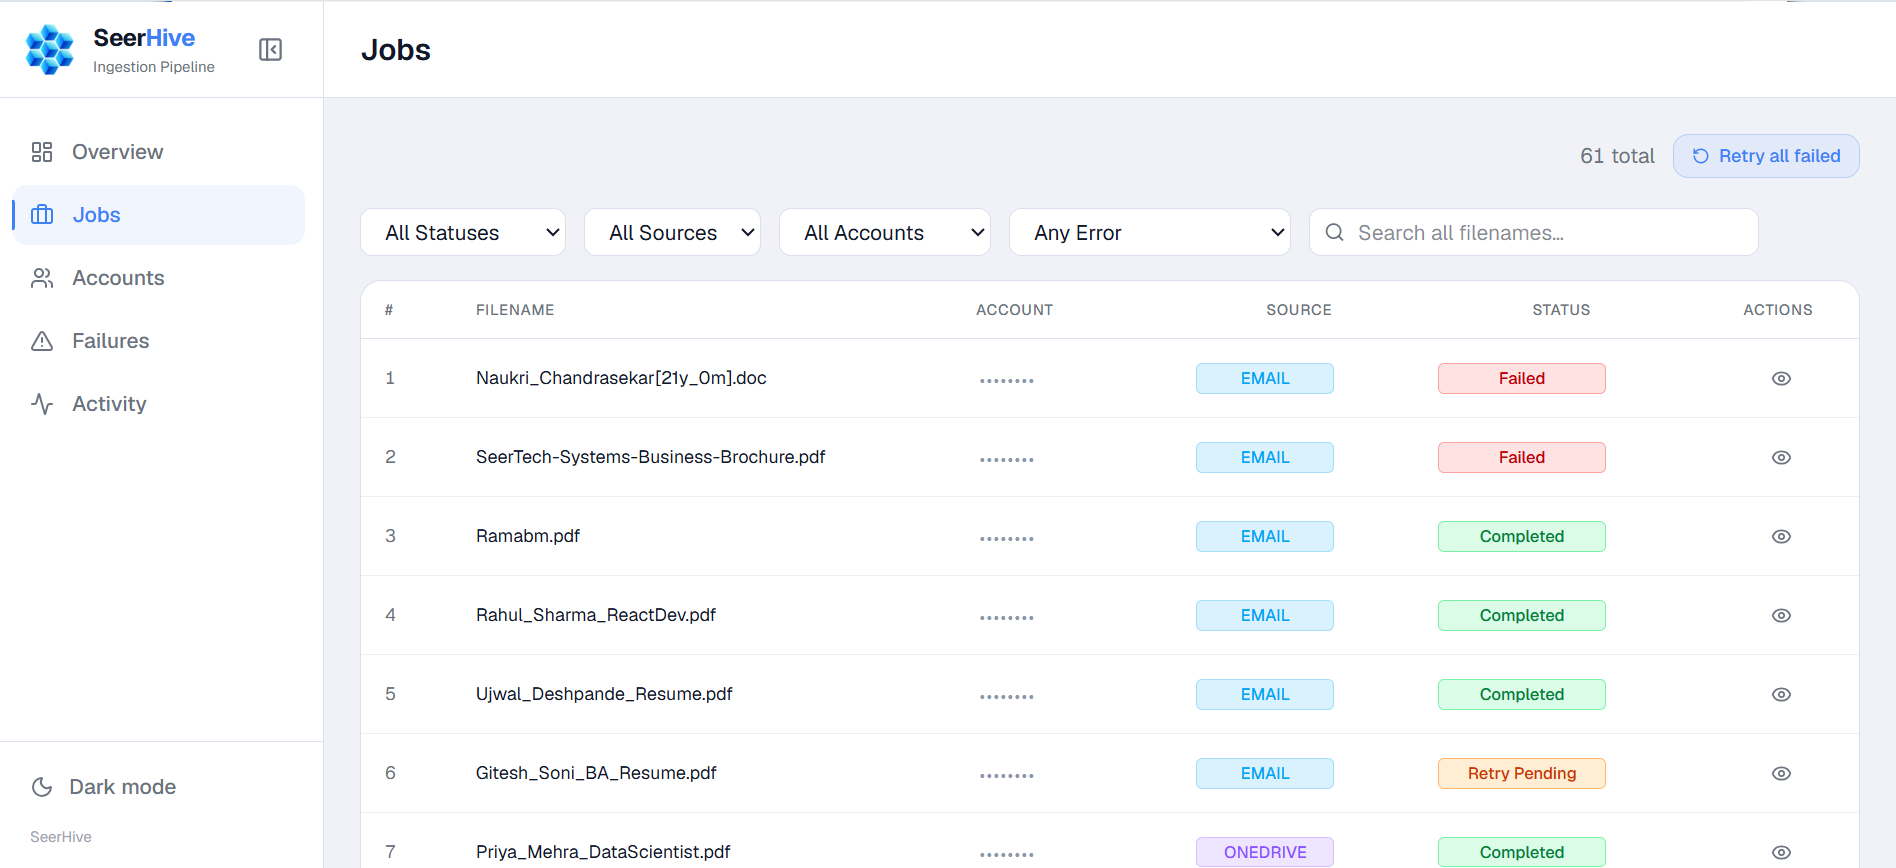
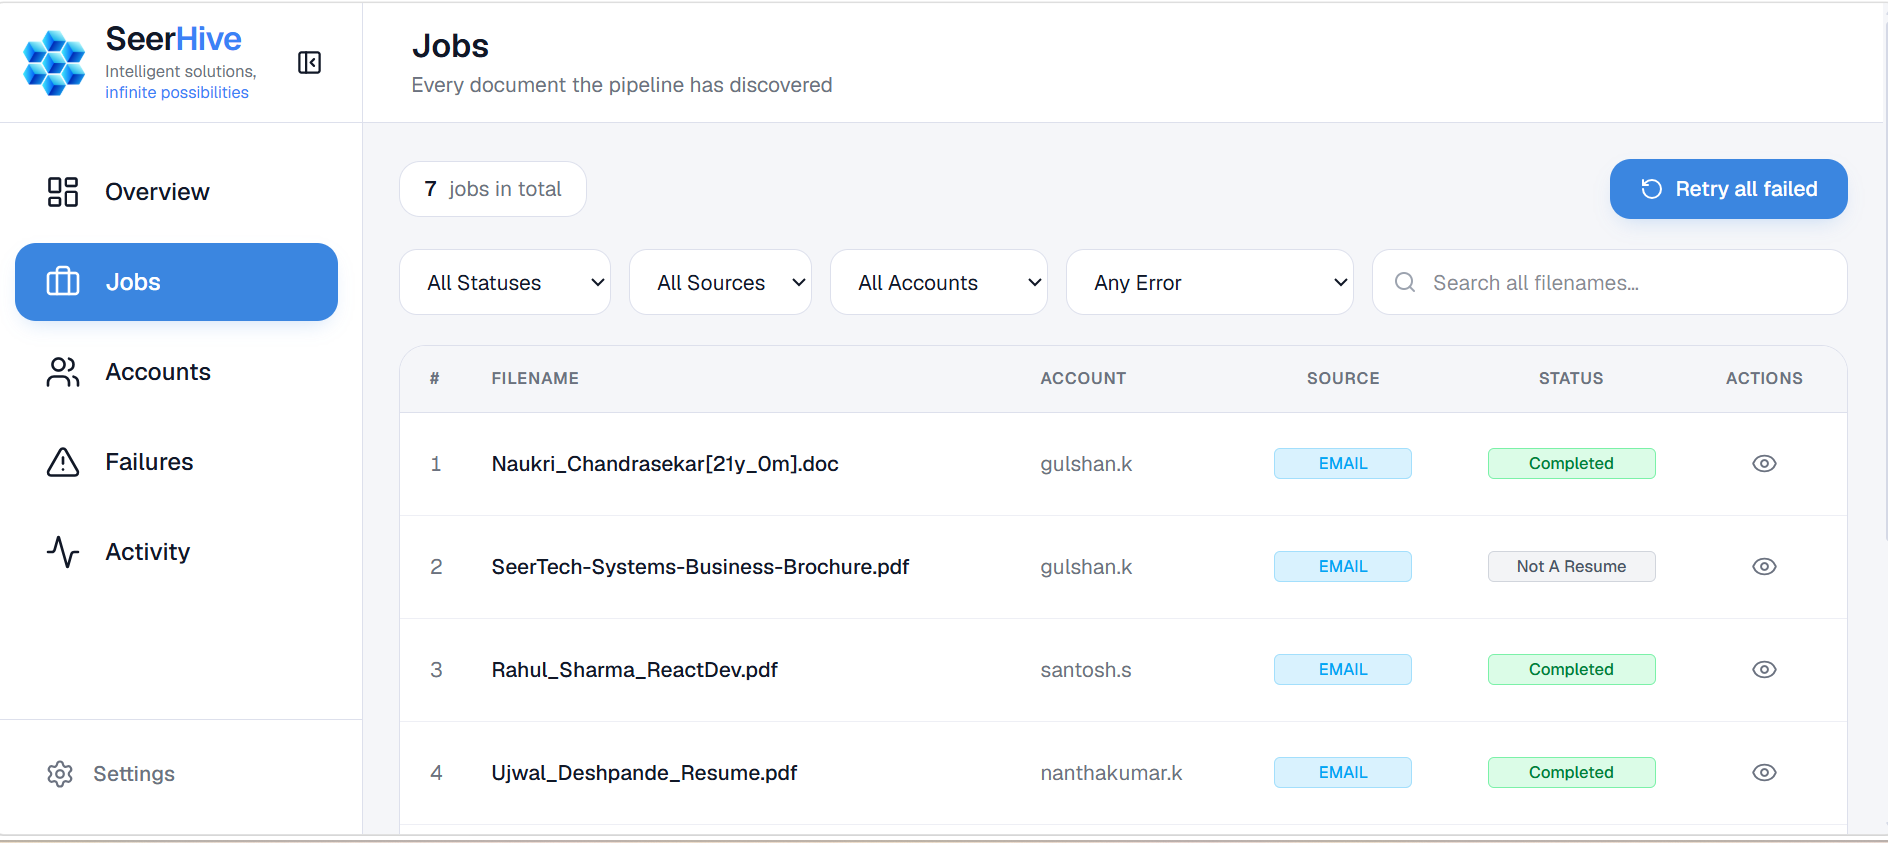
changes

diff --git a/lib/moduleScreens.ts b/lib/moduleScreens.ts
@@ -13,6 +13,35 @@ export type ModuleScreen = {
  * Captured from the current build with sample data: an input screen, then the real output.
  */
 export const moduleScreens: Record<string, ModuleScreen[]> = {
+  "voice-ai-agent": [
+    {
+      id: "dashboard",
+      tab: "Dashboard",
+      title: "See what your voice agents handled",
+      text: "Pick today, 7, 30 or 90 days and see the number of calls, the talk time, the average call and the busiest day. A daily chart shows when calls came in, and a split shows how many the agent handled itself and how many it passed to a person.",
+      points: ["Calls, talk time, average call and busiest day", "Handled by the agent, passed to a person, or did not complete", "Calls per day chart", "How calls arrived, such as phone inbound"],
+      image: "/screens/voice-ai-agent/dashboard.png",
+      alt: "Voice AI dashboard with 11 calls in 30 days, a daily chart and how the calls were handled",
+    },
+    {
+      id: "agents",
+      tab: "Agent Studio",
+      title: "Create and manage your agents in one place",
+      text: "Every agent is a row with its status and the number of calls it took today. Filter by active, paused or draft, search by name, and create a new agent from the same screen.",
+      points: ["Active, paused and draft filters with counts", "Calls today for each agent", "Search agents by name", "Create or delete an agent"],
+      image: "/screens/voice-ai-agent/agent-studio.png",
+      alt: "Voice AI Agent Studio listing three active agents with their calls today",
+    },
+    {
+      id: "history",
+      tab: "Call history",
+      title: "Review every call the agents took",
+      text: "Each call is listed with the agent, the caller, the start time, how long it lasted and whether it was resolved. Search by caller, agent or call ID, or narrow the list to one agent.",
+      points: ["Agent, caller, start time and duration on every call", "Resolved status for each call", "Phone or other channel shown", "Search by caller, agent or call ID"],
+      image: "/screens/voice-ai-agent/call-history.png",
+      alt: "Voice AI call history with agent, caller, duration, status and channel",
+    },
+  ],
   "resume-enhancer": [
     {
       id: "input",

diff --git a/lib/projects.ts b/lib/projects.ts
@@ -256,7 +256,7 @@ export const projects: Project[] = [
       "Resumes arrive as email attachments and OneDrive files, from a few hundred a week to tens of thousands in a backfill. The SeerHive pipeline collects, de-duplicates, checks, classifies and stores them in the background. The Ingestion Dashboard is how people see and steer it: whether resumes are flowing, where any single file ended up, and what to do when something fails. No more chasing \"did that resume come through?\" messages.",
     mock: "ingestion-dashboard",
     screenshot: "/screens/ingestion-dashboard/overview.png",
-    screenshotRatio: 2.17,
+    screenshotRatio: 2.29,
     evaluates: [
       { title: "Any-source intake", detail: "Connects to any email account, job portal or external source." },
       { title: "AI extraction", detail: "Pulls skills, experience, education and contact details from PDF and Word resumes." },
@@ -295,6 +295,8 @@ export const projects: Project[] = [
     longDescription:
       "SeerHive Invoicing generates accurate client invoices with fully configurable templates, tax and rate rules and billing cycles, and uses AI to extract, validate, approve and track incoming vendor invoices, all from one platform.",
     mock: "invoicing",
+    screenshot: "/screens/invoicing/templates.png",
+    screenshotRatio: 2.31,
     evaluates: [
       { title: "Configurable billing", detail: "Templates, tax and rate rules and client-wise billing cycles, with no custom code." },
       { title: "AI invoice extraction", detail: "Pulls vendor details, line items, taxes and payment terms from incoming invoices." },

diff --git a/components/ProductShowcase.tsx b/components/ProductShowcase.tsx
@@ -9,7 +9,7 @@ const SCREENS: Record<string, { screenshot: string; href: string }> = {
   "recruit-ai": { screenshot: "/screens/resume-enhancer/2.png", href: "/projects/resume-enhancer" },
   "data-ingestion": { screenshot: "/screens/ingestion-dashboard/overview.png", href: "/projects/data-ingestion" },
   "seer-hive": { screenshot: "/screens/hrms/main.png", href: "/projects/seer-hive" },
-  invoicing: { screenshot: "/screens/hrms/invoicing.png", href: "/projects/invoicing" },
+  invoicing: { screenshot: "/screens/invoicing/templates.png", href: "/projects/invoicing" },
 };
 const ORDER = ["seervoiz", "recruit-ai", "data-ingestion", "seer-hive", "invoicing"];
 const items = ORDER.map((id) => {
